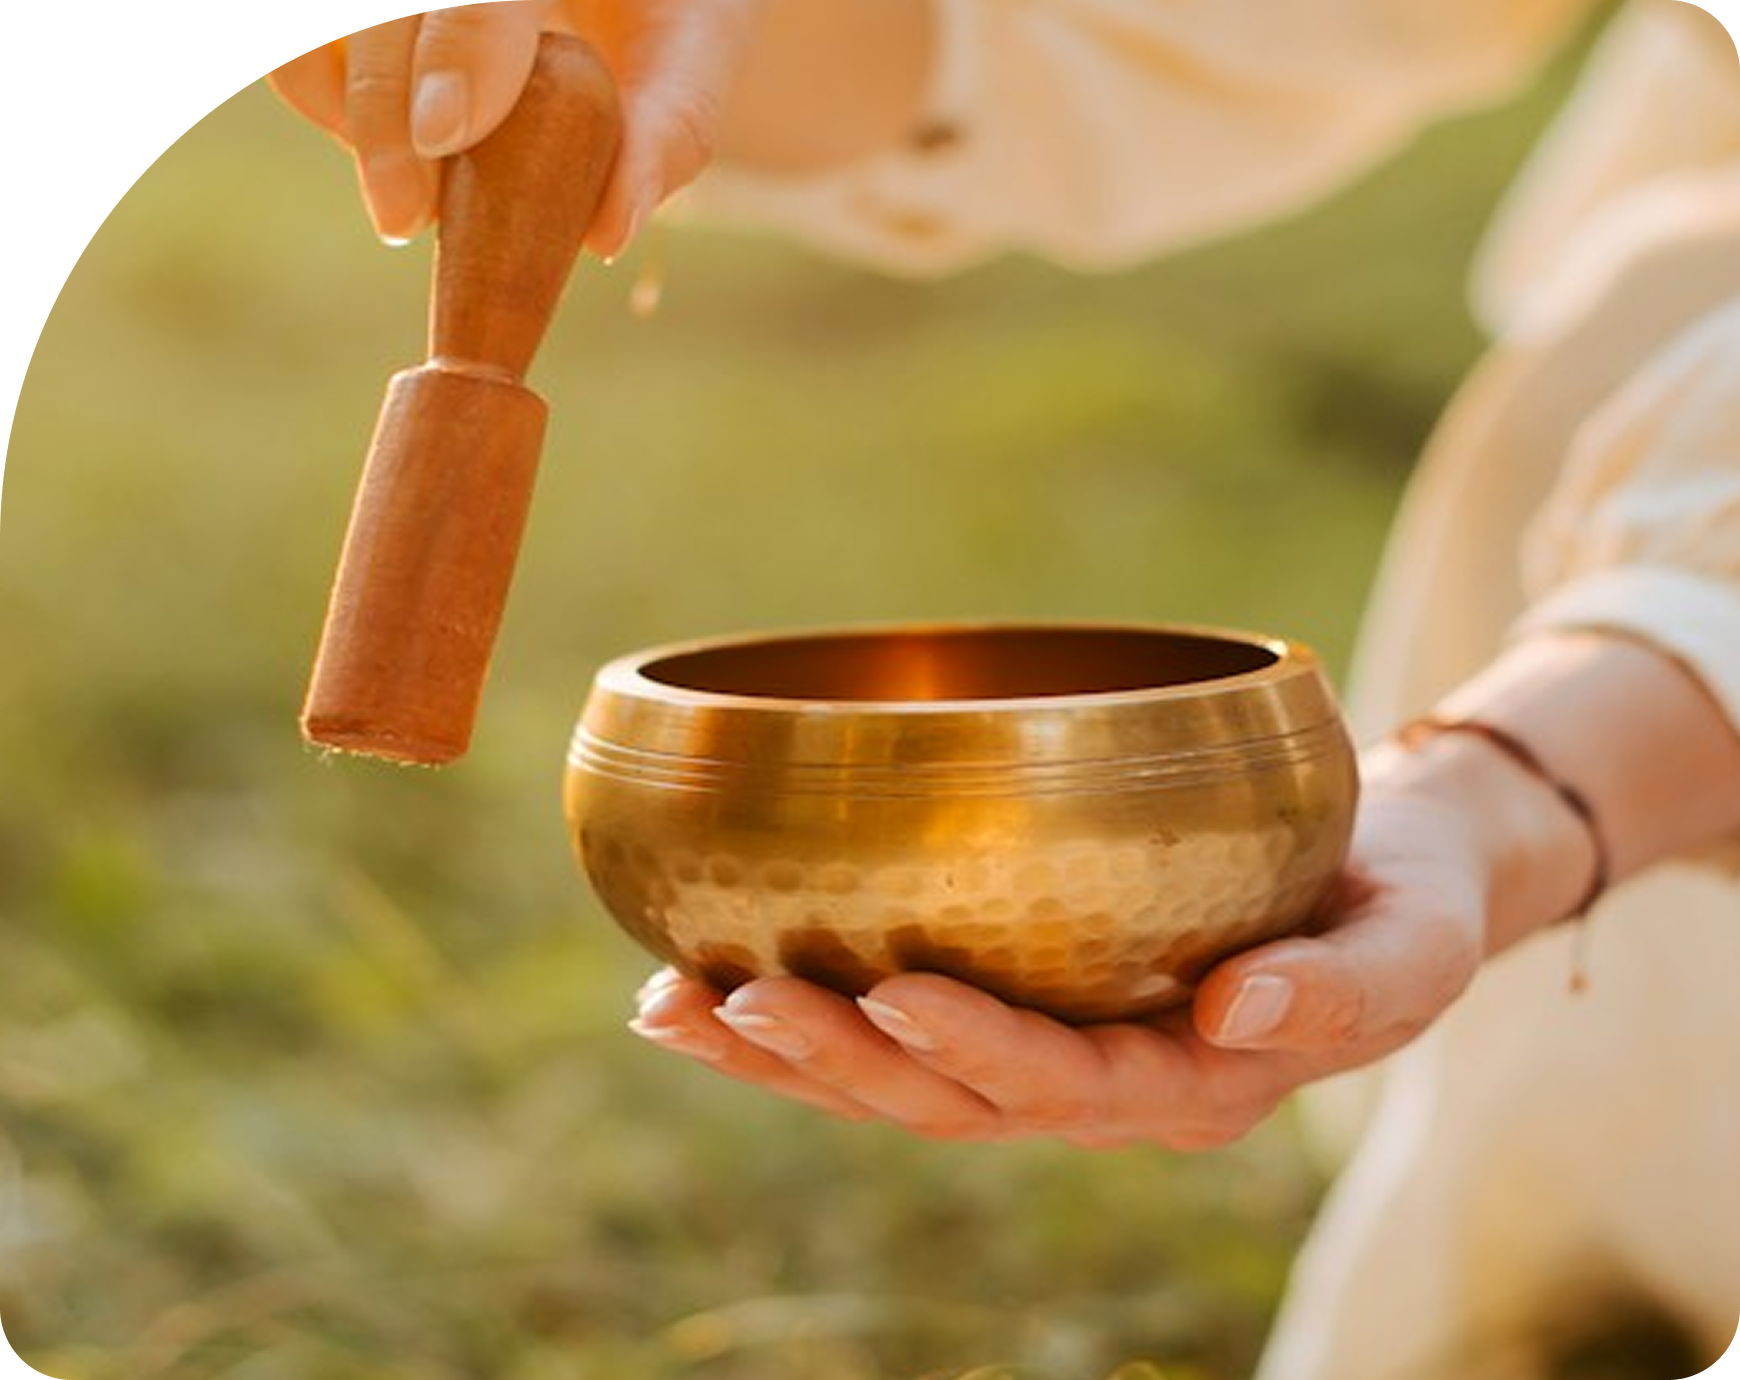
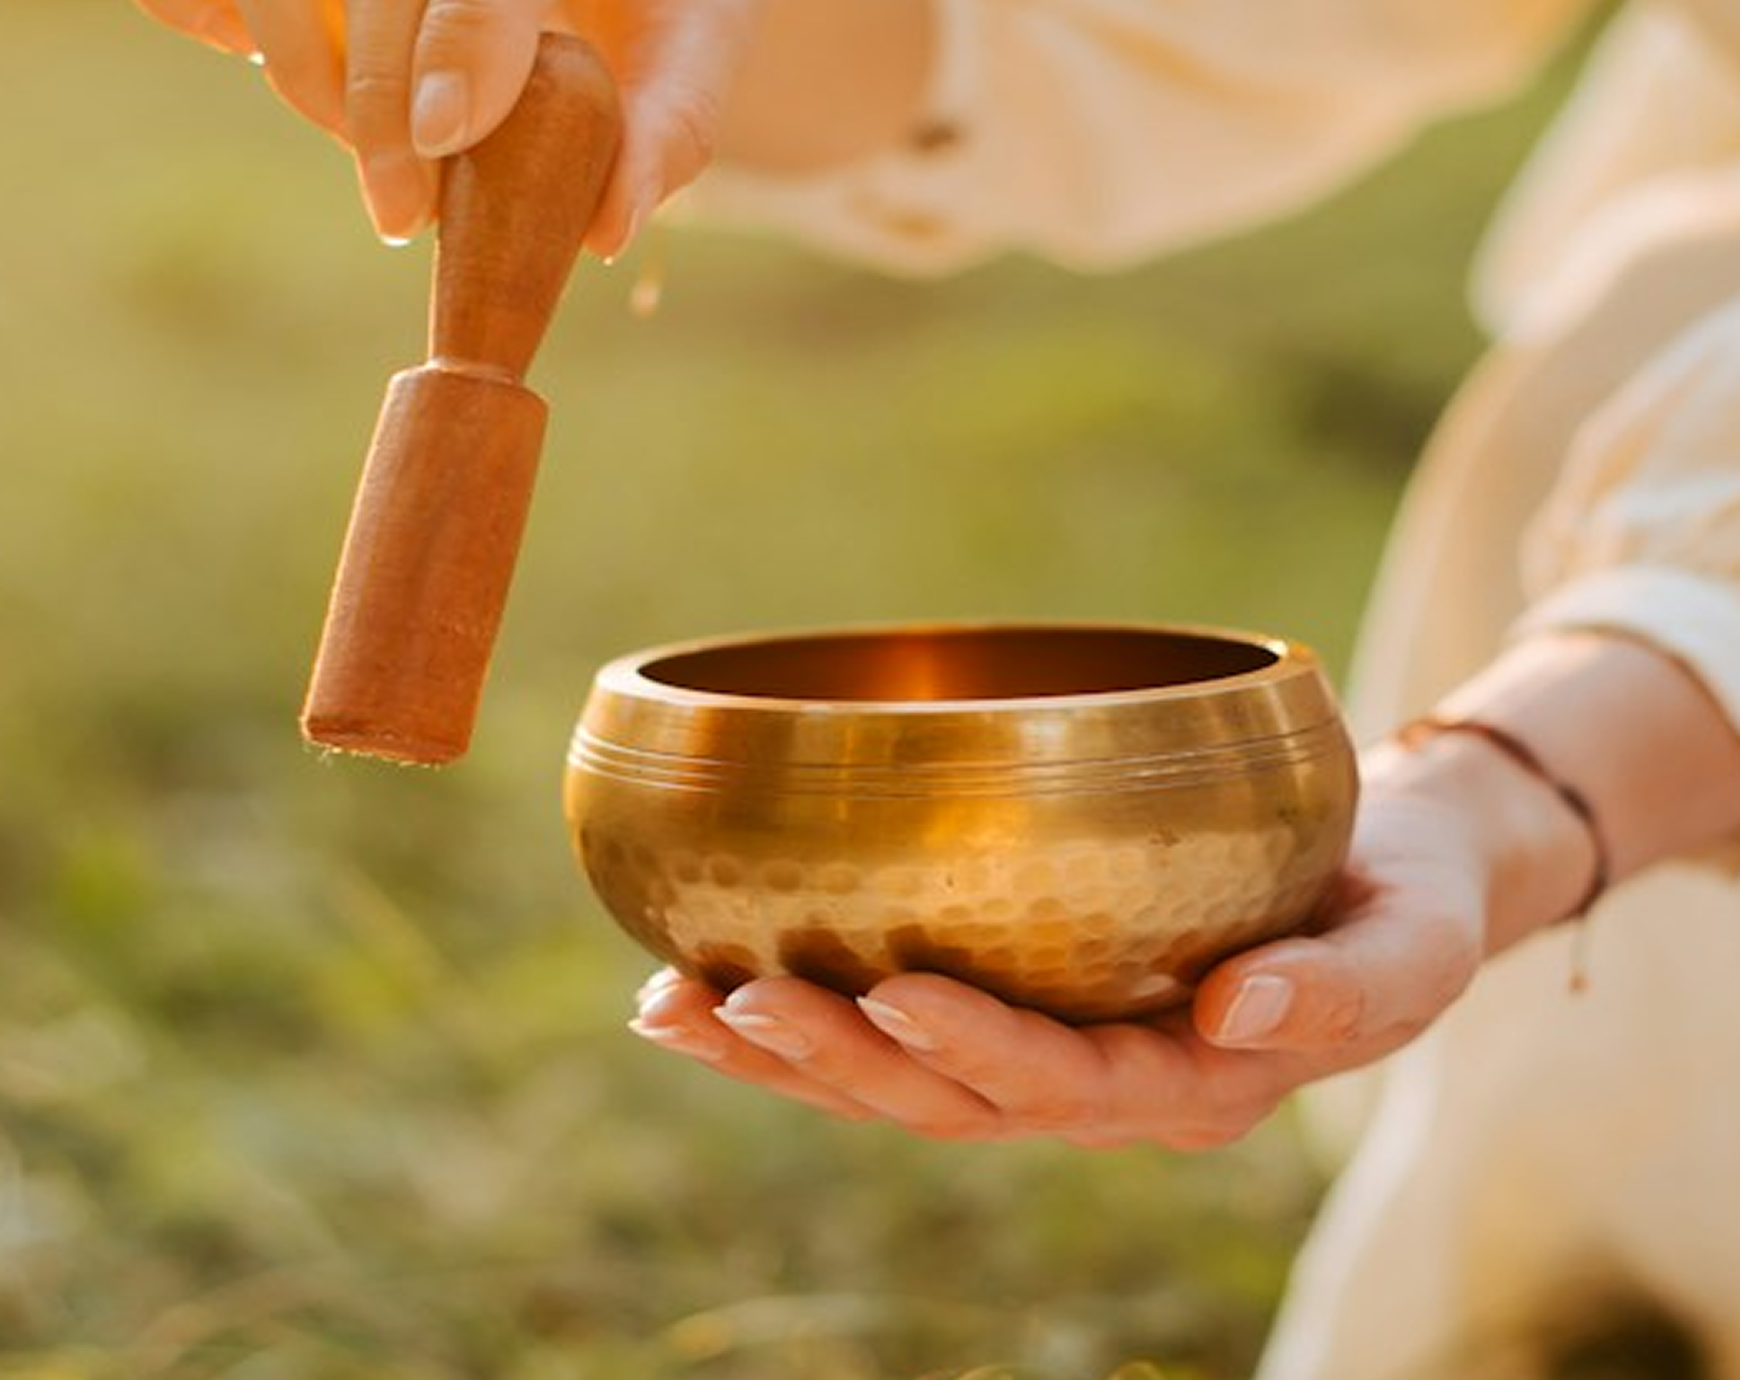
Responsive complet : burger menu, hero mobile, contact, scroll offset navbar
- Burger menu : overlay blanc, icône ☰/✕, CTA masqué en mobile
- Hero : image mobile dédiée avec grand arrondi top-left CSS
- Hero image desktop : arrondi top-left 180px en CSS pur (PNG opaque)
- Steps 1-4 : bloc centré en responsive, texte aligné à gauche
- Contact : layout colonne en responsive (texte puis formulaire)
- FAQ ajoutée dans la navbar desktop et burger menu (index + contact)
- Smooth scroll corrigé pour tenir compte de la hauteur de la navbar sticky

diff --git a/styles.css b/styles.css
@@ -153,9 +153,10 @@ section {
 .hero-image {
   width: 580px;
   max-width: 45vw;
-  height: 460px;
+  aspect-ratio: 5/4;
   flex-shrink: 0;
   border-radius: var(--radius-lg);
+  border-top-left-radius: 180px;
   background: url('images/hero-image.png') center/cover no-repeat;
 }
 
@@ -449,13 +450,34 @@ footer hr { border-top: 1px solid rgba(255,255,255,0.15); }
 @media (max-width: 900px) {
   section { padding: 60px 24px; }
   .navbar { padding: 16px 24px; }
-  .nav-links { display: none; }
+  .navbar .btn-primary { display: none; }
   .nav-toggle { display: block; }
+  .nav-links {
+    display: none;
+    position: absolute;
+    top: 100%;
+    left: 0;
+    right: 0;
+    flex-direction: column;
+    align-items: flex-start;
+    background: var(--white);
+    border-bottom: 1px solid var(--lavender-light);
+    padding: 8px 24px 24px;
+    gap: 0;
+  }
+  .nav-links.open { display: flex; }
+  .nav-links a { padding: 16px 0; font-size: 16px; width: 100%; border-bottom: 1px solid var(--bg-lavender); }
+  .nav-links a:last-child { border-bottom: none; }
   .hero, .about { flex-direction: column; }
-  .hero-image, .about-image { width: 100%; max-width: 100%; }
-  .stats-row { flex-direction: column; gap: 24px; }
+  .hero-image { width: calc(100% - 16px); max-width: 100%; height: 300px; border-radius: 16px; border-top-left-radius: 100px; margin: 0 8px; background-image: url('images/hero-image-mobile.png'); }
+  .about-image { width: 100%; max-width: 100%; height: 360px; border-radius: 16px; }
+  .stats-row { flex-direction: column; gap: 24px; align-items: flex-start; width: fit-content; margin: 0 auto; }
   .main-content { flex-direction: column; }
   .left-column { width: 100%; }
   h1 { font-size: 34px; }
   h2 { font-size: 26px; }
+  .contact-page { flex-direction: column; padding: 60px 24px; gap: 40px; }
+  .contact-left { padding-top: 0; }
+  .contact-left h1 { font-size: 34px; }
+  .contact-right { width: 100%; margin-left: 0; }
 }

diff --git a/script.js b/script.js
@@ -5,8 +5,16 @@ document.addEventListener('DOMContentLoaded', () => {
   const navLinks = document.getElementById('navLinks');
   if (navToggle && navLinks) {
     navToggle.addEventListener('click', () => {
-      navLinks.classList.toggle('open');
-      navLinks.style.display = navLinks.classList.contains('open') ? 'flex' : 'none';
+      const isOpen = navLinks.classList.toggle('open');
+      navToggle.textContent = isOpen ? '✕' : '☰';
+      navToggle.setAttribute('aria-label', isOpen ? 'Fermer le menu' : 'Ouvrir le menu');
+    });
+    navLinks.querySelectorAll('a').forEach(link => {
+      link.addEventListener('click', () => {
+        navLinks.classList.remove('open');
+        navToggle.textContent = '☰';
+        navToggle.setAttribute('aria-label', 'Ouvrir le menu');
+      });
     });
   }
 
@@ -37,7 +45,9 @@ document.addEventListener('DOMContentLoaded', () => {
       const target = document.querySelector(this.getAttribute('href'));
       if (target) {
         e.preventDefault();
-        target.scrollIntoView({ behavior: 'smooth' });
+        const navbarHeight = document.querySelector('.navbar').offsetHeight;
+        const targetTop = target.getBoundingClientRect().top + window.scrollY - navbarHeight;
+        window.scrollTo({ top: targetTop, behavior: 'smooth' });
       }
     });
   });

diff --git a/contact.html b/contact.html
@@ -21,6 +21,7 @@
     <a href="index.html#about">À propos</a>
     <a href="index.html#services">Services</a>
     <a href="index.html#testimonials">Avis</a>
+    <a href="index.html#faq">FAQ</a>
     <a href="contact.html" class="nav-active">Contact</a>
   </nav>
   <a href="index.html#services" class="btn btn-primary">Prendre rendez-vous</a>
@@ -115,8 +116,16 @@ document.addEventListener('DOMContentLoaded', () => {
   const navLinks = document.getElementById('navLinks');
   if (navToggle && navLinks) {
     navToggle.addEventListener('click', () => {
-      navLinks.classList.toggle('open');
-      navLinks.style.display = navLinks.classList.contains('open') ? 'flex' : 'none';
+      const isOpen = navLinks.classList.toggle('open');
+      navToggle.textContent = isOpen ? '✕' : '☰';
+      navToggle.setAttribute('aria-label', isOpen ? 'Fermer le menu' : 'Ouvrir le menu');
+    });
+    navLinks.querySelectorAll('a').forEach(link => {
+      link.addEventListener('click', () => {
+        navLinks.classList.remove('open');
+        navToggle.textContent = '☰';
+        navToggle.setAttribute('aria-label', 'Ouvrir le menu');
+      });
     });
   }
 

diff --git a/index.html b/index.html
@@ -24,6 +24,7 @@
     <a href="#about">À propos</a>
     <a href="#services">Services</a>
     <a href="#testimonials">Avis</a>
+    <a href="#faq">FAQ</a>
     <a href="contact.html">Contact</a>
   </nav>
   <a href="#services" class="btn btn-primary">Prendre rendez-vous</a>
@@ -302,7 +303,7 @@
         </div>
         <div class="faq-item">
           <button class="faq-question">
-            <span>Est-ce aussi efficace qu'une séance en cabinet ?</span>
+            <span>Est-ce aussi efficace qu'une séance en cabinet&nbsp;?</span>
             <span class="chevron" aria-hidden="true"><svg width="10" height="5" viewBox="-1 -1 12 7" fill="none" xmlns="http://www.w3.org/2000/svg"><path d="M0 0L5 5L10 0" stroke="currentColor" stroke-width="2" stroke-linecap="round" stroke-linejoin="round"/></svg></span>
           </button>
           <div class="faq-answer">
